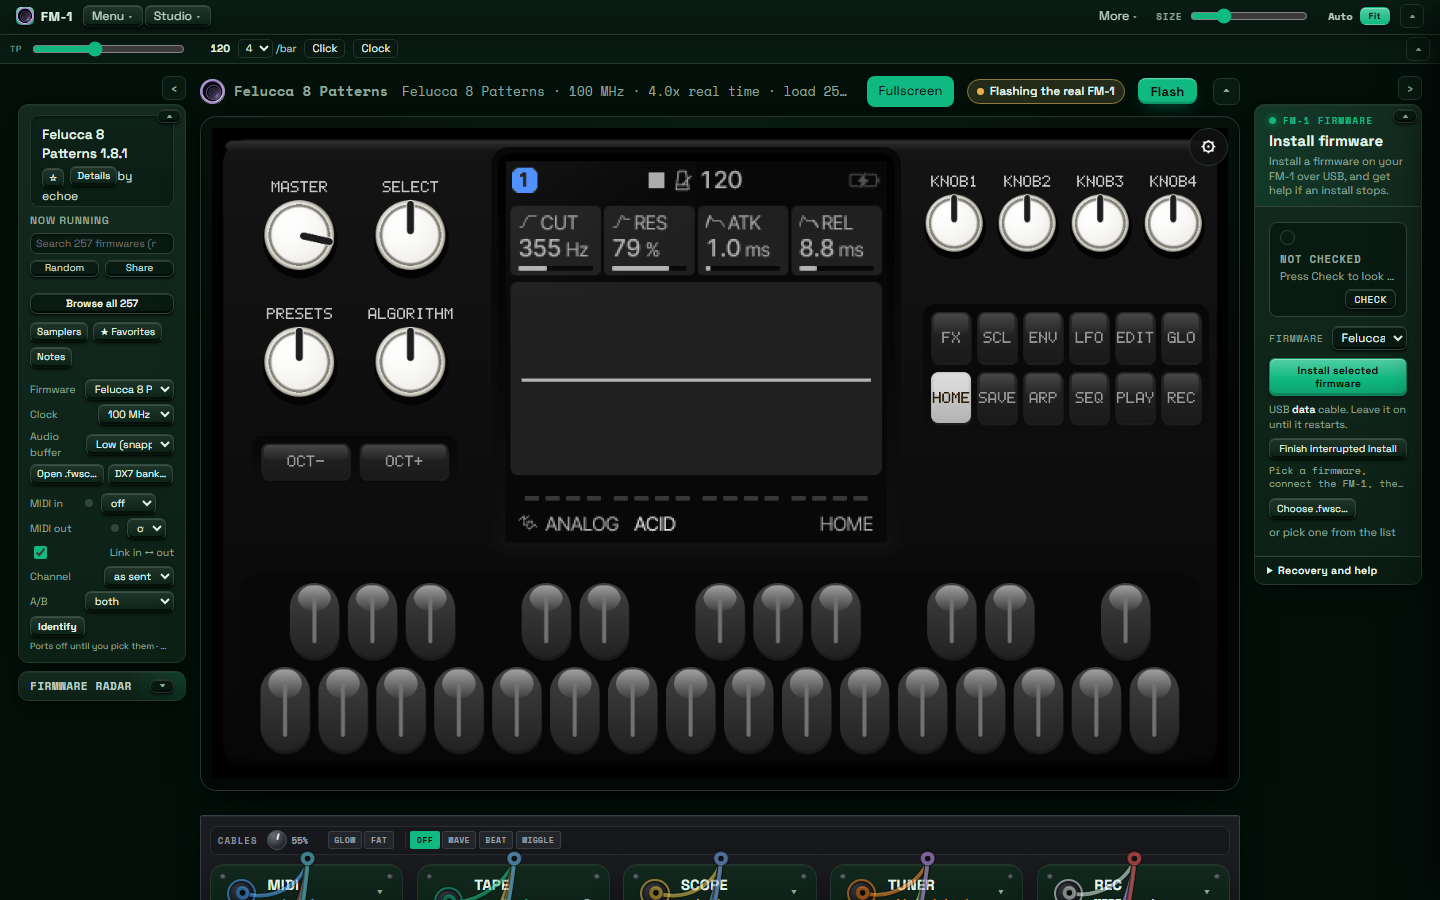
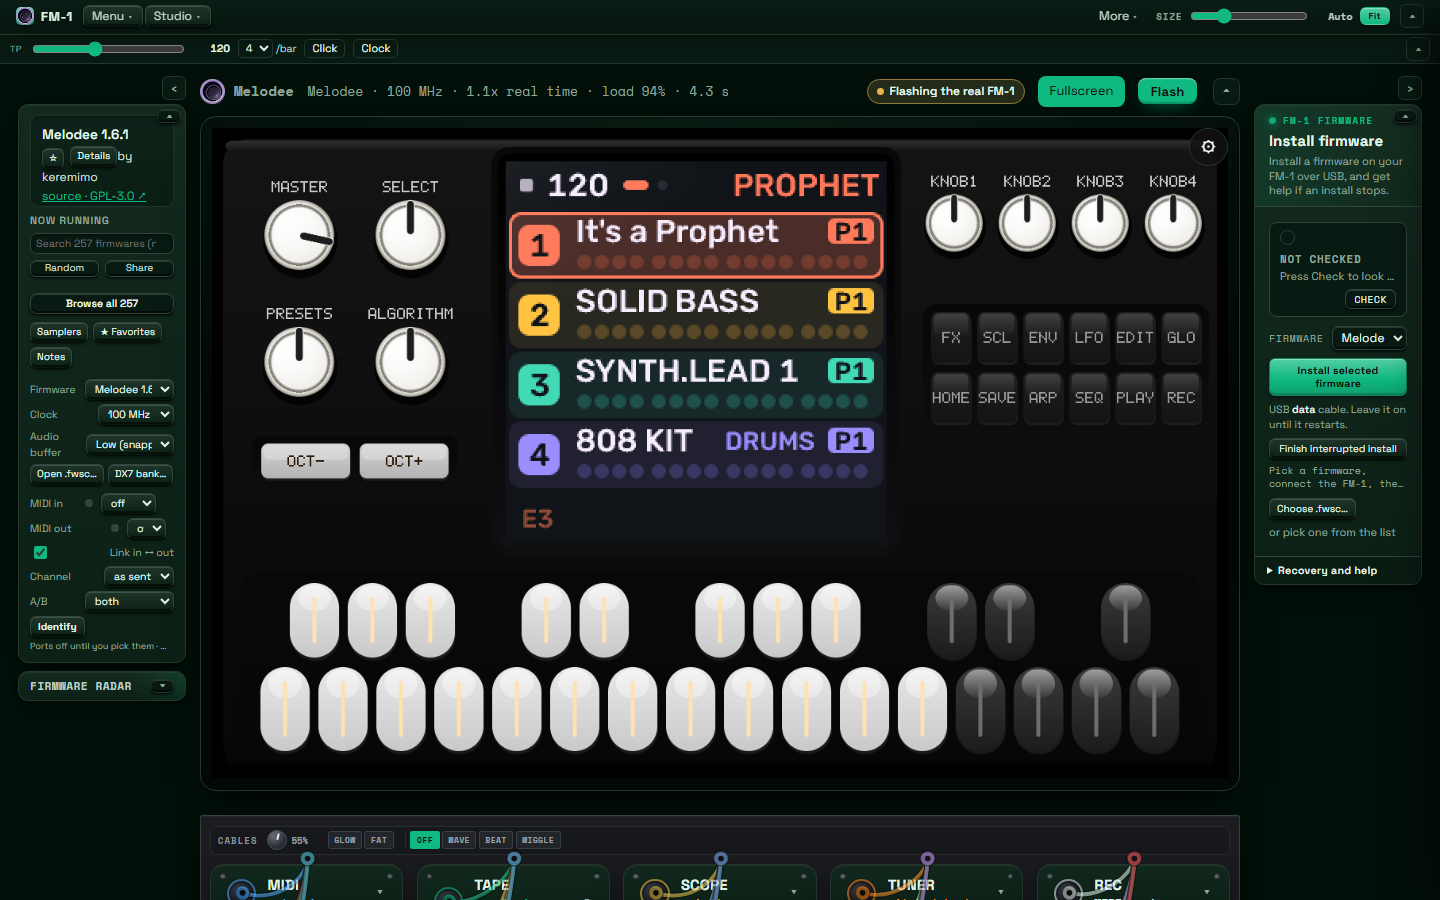
docs: hero under Download with live LCDs; distinct firmware per colour

diff --git a/README.md b/README.md
@@ -10,8 +10,6 @@ choose a firmware, press **Start**, and play with your keyboard, mouse, or a MID
 [![License: MIT](https://img.shields.io/badge/license-MIT-blue.svg)](LICENSE)
 ![Platforms](https://img.shields.io/badge/platforms-Windows%20%7C%20macOS%20%7C%20Linux-informational)
 
-<img src="docs/screenshot.jpg" alt="FM-1 Emulator" width="760">
-
 </div>
 
 ---
@@ -29,6 +27,10 @@ Get the latest build for your system from the [**Releases**](https://github.com/
 | **Windows** | `FM-1-Emulator-Setup-*.exe` (installer) or `*-portable.exe` (no install) |
 | **macOS** | `*-arm64.dmg` (Apple Silicon) · `*-x64.dmg` (Intel) |
 | **Linux** | `*.AppImage` or `*.deb` |
+
+<p align="center">
+  <img src="docs/hero.jpg" alt="FM-1 Emulator — AURORA" width="760">
+</p>
 
 ## First launch
 
